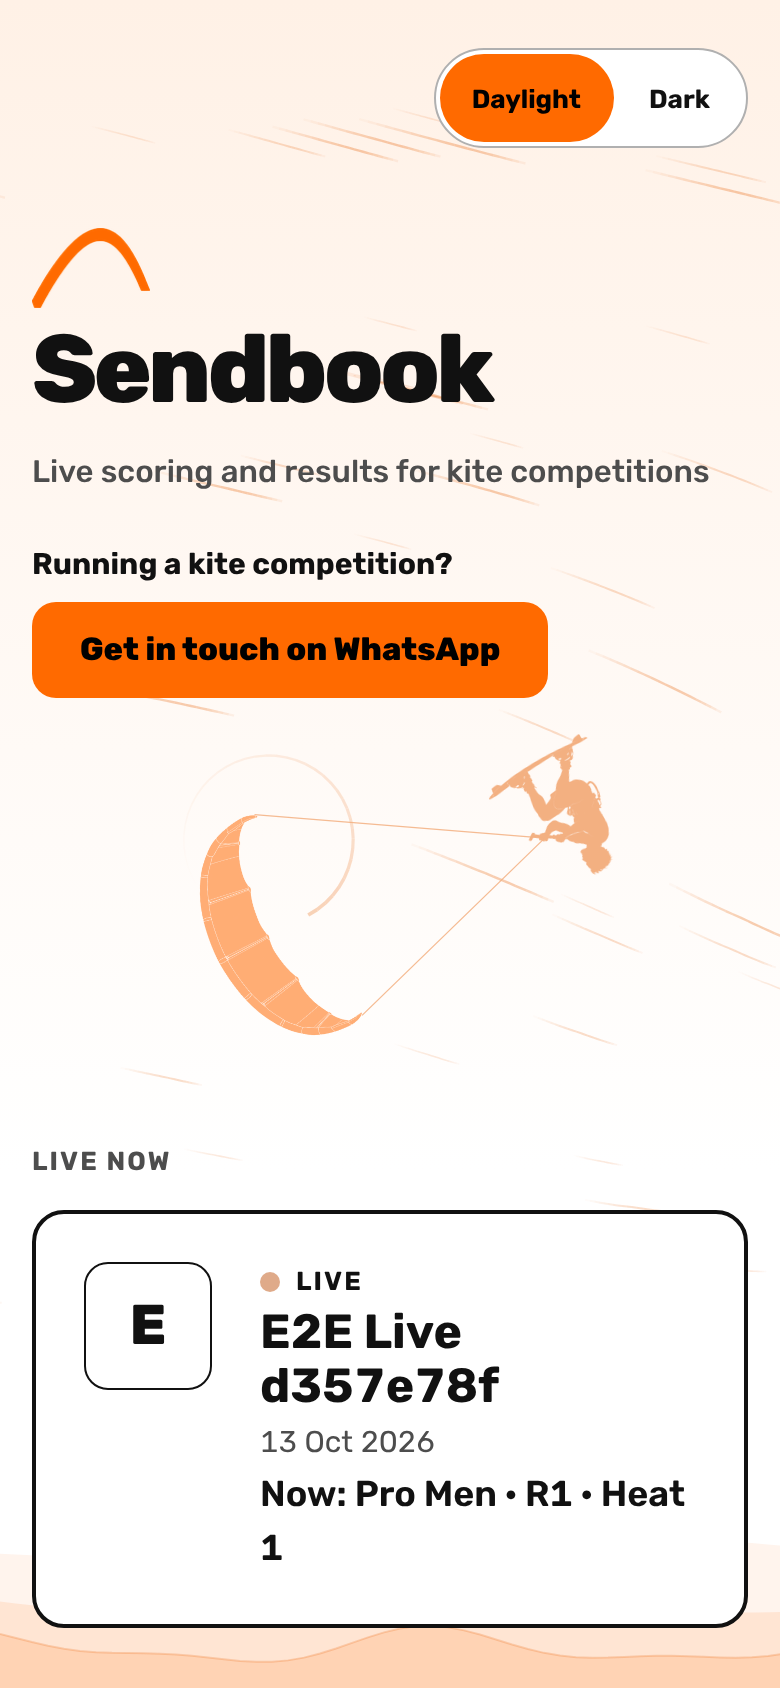
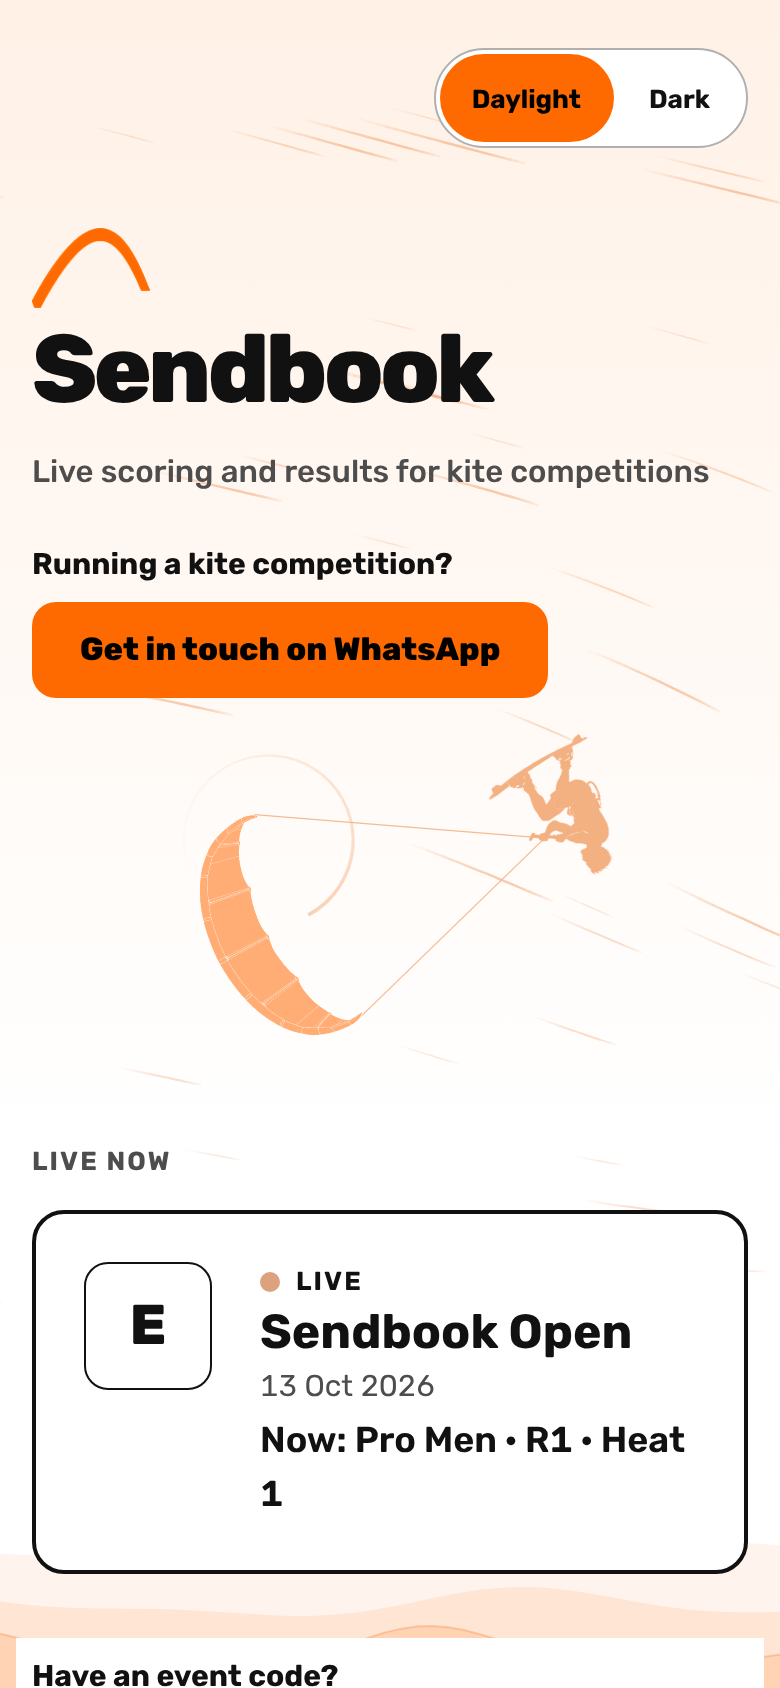
feat(home): the public home page leaves out events of throwaway test organisations; home pictures retaken without test events
Claude-Session: https://claude.ai/code/session_01QtMAzXmRQ1GE34SyFTH2sB

diff --git a/src/lib/public/test-events.test.ts b/src/lib/public/test-events.test.ts
@@ -1,0 +1,24 @@
+import { describe, expect, it } from "vitest";
+import { isThrowawayTestEvent, withoutTestEvents } from "./test-events";
+
+const ev = (organisation_name: string | null) => ({ id: organisation_name ?? "none", organisation_name });
+
+describe("test events on the public home page", () => {
+  it("recognises a throwaway organisation made by the e2e helper, and nothing else", () => {
+    expect(isThrowawayTestEvent(ev("E2E Big Air 8552cb68"))).toBe(true);
+    for (const real of ["Arrow", "EKL", "Demo", "Red Bull Kite Club", "E2E Big Air", "E2E Big Air Series", "e2e big air 8552cb68", "rls-1a2b3c4d", null]) expect(isThrowawayTestEvent(ev(real))).toBe(false);
+  });
+  it("leaves test events out for visitors and keeps every real event, in order", () => {
+    const list = [ev("Arrow"), ev("E2E Big Air 0123abcd"), ev("EKL"), ev("E2E Big Air ffffffff"), ev(null)];
+    expect(withoutTestEvents(list, false).map((e) => e.id)).toEqual(["Arrow", "EKL", "none"]);
+  });
+  it("shows them on a test server (SHOW_TEST_EVENTS=1) so the browser tests can find their own", () => {
+    const list = [ev("Arrow"), ev("E2E Big Air 0123abcd")];
+    expect(withoutTestEvents(list, true)).toHaveLength(2);
+  });
+  it("the real configuration: the page filters, the test servers switch it off", async () => {
+    const { readFileSync } = await import("node:fs");
+    expect(readFileSync("src/app/page.tsx", "utf8")).toContain("withoutTestEvents(");
+    expect(readFileSync("playwright.config.ts", "utf8").match(/SHOW_TEST_EVENTS=1/g)).toHaveLength(2);
+  });
+});

diff --git a/src/lib/public/test-events.ts b/src/lib/public/test-events.ts
@@ -1,0 +1,12 @@
+/**
+ * The e2e and manual-picture runs create a throwaway organisation on the shared database; its name is always "E2E Big Air" and 8 hex characters (e2e/organiser.ts, the only
+ * place that makes one). The public home page leaves those organisations' events out, so a visitor never sees a test event while tests run. Test servers show them
+ * (SHOW_TEST_EVENTS=1 in playwright.config.ts) because the browser tests look for exactly those events. Simulations are already left out by the database function.
+ */
+const THROWAWAY_ORGANISATION = /^E2E Big Air [0-9a-f]{8}$/;
+
+export const isThrowawayTestEvent = (e: { organisation_name: string | null }) => THROWAWAY_ORGANISATION.test((e.organisation_name ?? "").trim());
+
+export function withoutTestEvents<T extends { organisation_name: string | null }>(events: T[], showTest = process.env.SHOW_TEST_EVENTS === "1"): T[] {
+  return showTest ? events : events.filter((e) => !isThrowawayTestEvent(e));
+}

diff --git a/src/app/page.tsx b/src/app/page.tsx
@@ -15,6 +15,7 @@ import { createClient } from "@/lib/supabase/server";
 import { copy } from "@/lib/ui-copy";
 import { PRODUCT_VERSION } from "@/lib/product-version";
 import { whatsappLink } from "@/lib/public/contact";
+import { withoutTestEvents } from "@/lib/public/test-events";
 
 export const dynamic = "force-dynamic";
 
@@ -54,7 +55,7 @@ function CodeField() {
 async function Events() {
   const settings = await getPlatformSettings();
   const { data, error } = await (await createClient()).rpc("get_public_events", { p_limit: 100 });
-  const events = (data ?? []) as LandingEvent[];
+  const events = withoutTestEvents((data ?? []) as LandingEvent[]);
   const groups = groupOrgEvents(events, todayIn(settings.defaultTimezone, Date.now()));
   const nows = await Promise.all(groups.live.slice(0, LIVE_LOOKUPS).map((e) => nowOn(e.slug)));
   return <EventsView groups={groups} nowLines={nows} failed={Boolean(error)} />;

diff --git a/e2e/manual-shots-polish4.spec.ts b/e2e/manual-shots-polish4.spec.ts
@@ -92,6 +92,11 @@ test.describe("the home page pictures", () => {
         document.querySelectorAll<HTMLElement>('[data-testid$="-events"]').forEach((sec) => {
           if (!sec.querySelector("li")) sec.remove();
         });
+        // the pictures are of an illustration: the throwaway organisation's names (and run codes) are swapped for plain sample names
+        const walker = document.createTreeWalker(document.body, NodeFilter.SHOW_TEXT);
+        for (let n = walker.nextNode(); n; n = walker.nextNode()) {
+          n.textContent = (n.textContent ?? "").replace(/E2E Big Air [0-9a-f]{8}/g, "Sendbook Kite League").replace(/E2E Live [0-9a-f]{8}/g, "Sendbook Open").replace(/(Open|Finished) (\d) [0-9a-f]{8}/g, "$1 Series $2");
+        }
         if (s === "empty") {
           const p = document.createElement("p");
           p.className = "home-empty";

diff --git a/playwright.config.ts b/playwright.config.ts
@@ -24,6 +24,6 @@ export default defineConfig({
   webServer: process.env.E2E_BASE_URL
     ? undefined
     : production
-      ? { command: "npm run build && PUBLIC_CACHE_MS=0 npx next start -p 3200", url: baseURL, reuseExistingServer: true, timeout: 600_000 }
-      : { command: "PUBLIC_CACHE_MS=0 npm run dev", url: baseURL, reuseExistingServer: true },
+      ? { command: "npm run build && PUBLIC_CACHE_MS=0 SHOW_TEST_EVENTS=1 npx next start -p 3200", url: baseURL, reuseExistingServer: true, timeout: 600_000 }
+      : { command: "PUBLIC_CACHE_MS=0 SHOW_TEST_EVENTS=1 npm run dev", url: baseURL, reuseExistingServer: true },
 });

diff --git a/docs/RELEASES.md b/docs/RELEASES.md
@@ -24,6 +24,7 @@ PR: #50
 - **The Daylight / Dark switch** has the brand orange on its selected side (black words), in both themes, like the other buttons on this page.
 - **The logo above the headline is the orange arc alone** (about 40 px tall), in both themes, because the headline already says Sendbook. The owner's transparent logos are in `design/brand/`; the home page was the only place the app shows the Sendbook logo, so no other page changed. (The logo set in Platform settings is no longer shown on the home page.)
 - **A "Get in touch" button under the tagline:** "Running a kite competition?" and an orange **Get in touch on WhatsApp** button that opens WhatsApp in a new tab with the message "Hi! I saw Sendbook and I'd like to know more." **The owner sets the number in Vercel:** Project → Settings → Environment Variables → `NEXT_PUBLIC_CONTACT_WHATSAPP`, digits only with the country code first (for example 201001234567; spaces, + and dashes are ignored), then redeploy. Until it is set, the line and the button do not show.
+- **Test events never show on the home page:** events of the throwaway organisations the automatic tests create (named "E2E Big Air" plus a code) are left out for visitors, so people arriving from Instagram never see them. Simulations were already left out.
 - **Reduce motion** shows one still picture. The movement pauses when the tab is hidden, and the picture is never drawn sharper than 2×.
 - **It loads after the page is visible:** the words and cards appear first; the background starts a moment later (two small pictures, 24 KB, and about 8 KB of script). It takes no space in the layout, so nothing jumps. On a phone the band under the wordmark pushes the event list down by about 200 px.
 
